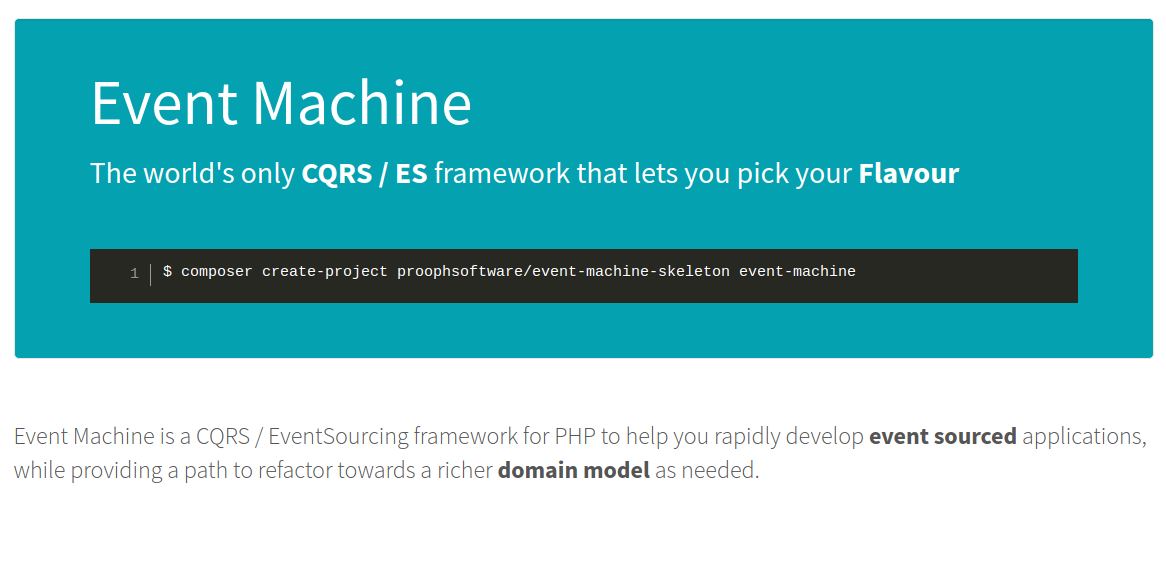
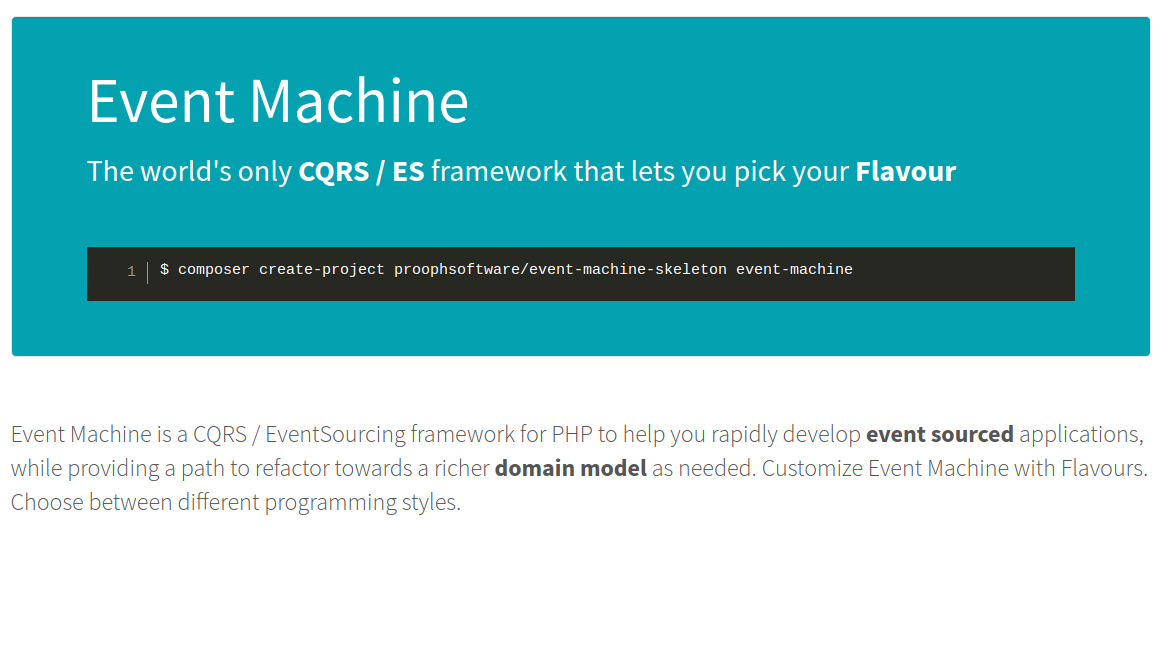
Add meta images

diff --git a/docs/front.php b/docs/front.php
@@ -12,10 +12,12 @@ $htmlMessageBox = __DIR__ . '/html/img/cqrs_messagebox_swagger.png';
 $htmlLogo = __DIR__ . '/html/img/prooph_features.png';
 $htmlTutorial = __DIR__ . '/html/img/tutorial_screen.png';
 $htmlIntro = __DIR__ . '/html/img/Event_Machine_Intro.png';
-foreach ([$htmlMessageBox, $htmlLogo, $htmlTutorial, $htmlIntro] as $file) {
+$htmlChooseFlavour = __DIR__ . '/html/img/Choose_Flavour.png';
+foreach ([$htmlMessageBox, $htmlLogo, $htmlTutorial, $htmlIntro, $htmlChooseFlavour] as $file) {
     if(file_exists($file)) unlink($file);
 }
 copy(__DIR__ . '/img/cqrs_messagebox_swagger.png', $htmlMessageBox);
 copy(__DIR__ . '/img/prooph_features.png', $htmlLogo);
 copy(__DIR__ . '/img/tutorial_screen.png', $htmlTutorial);
 copy(__DIR__ . '/img/Event_Machine_Intro.png', $htmlIntro);
+copy(__DIR__ . '/img/Choose_Flavour.png', $htmlChooseFlavour);
